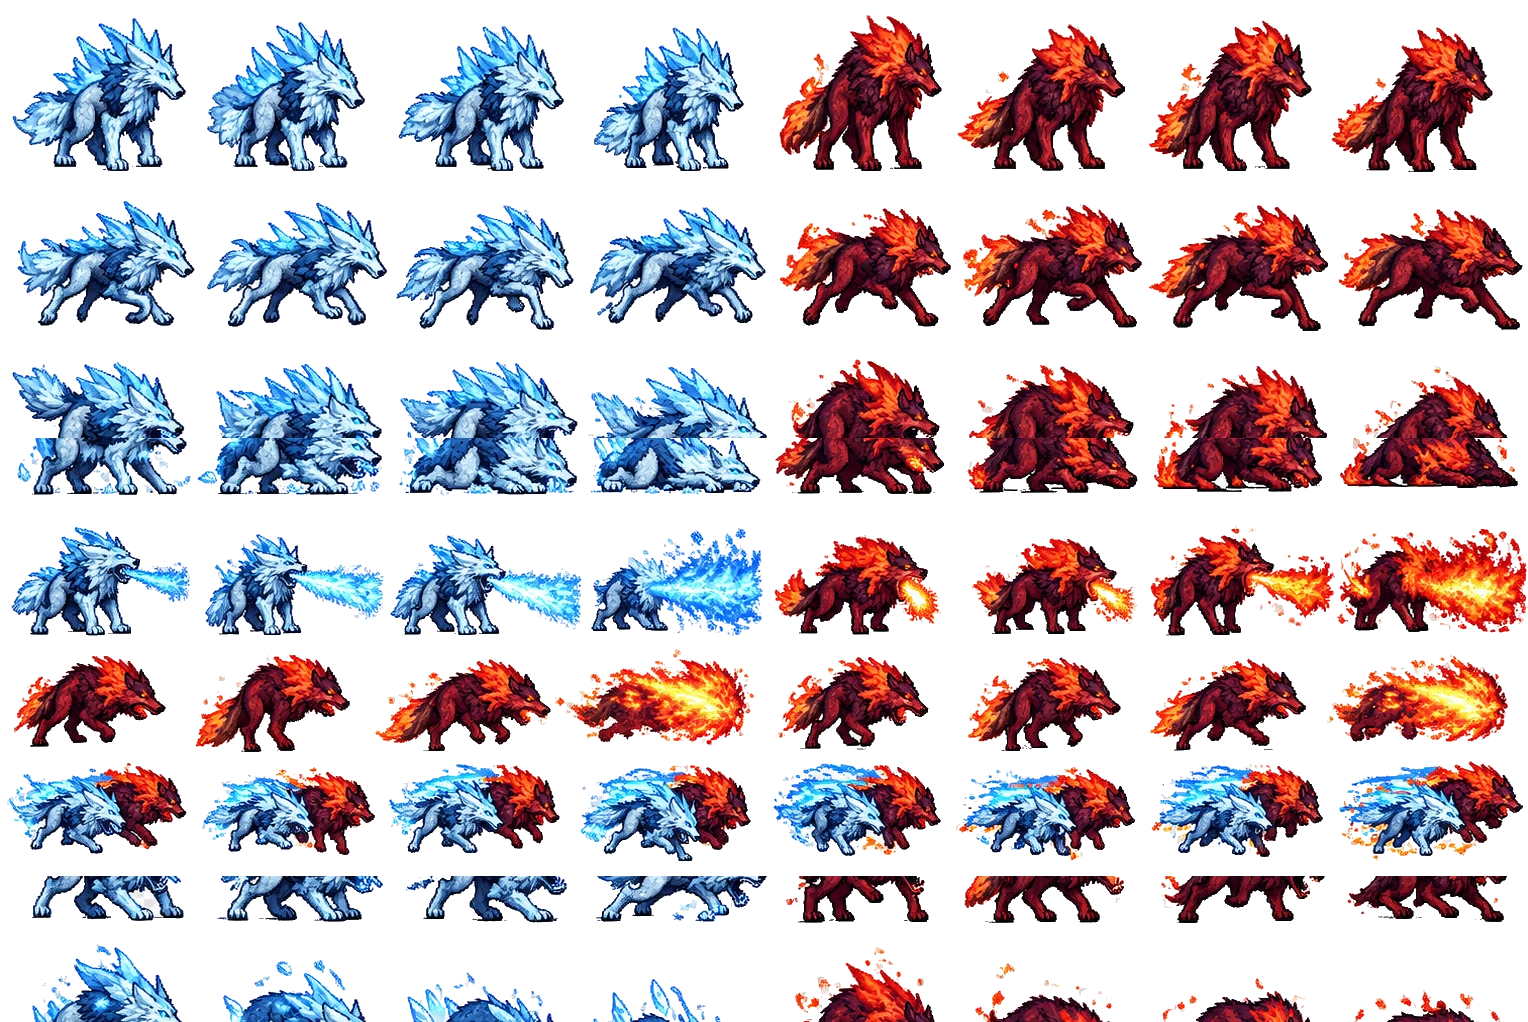
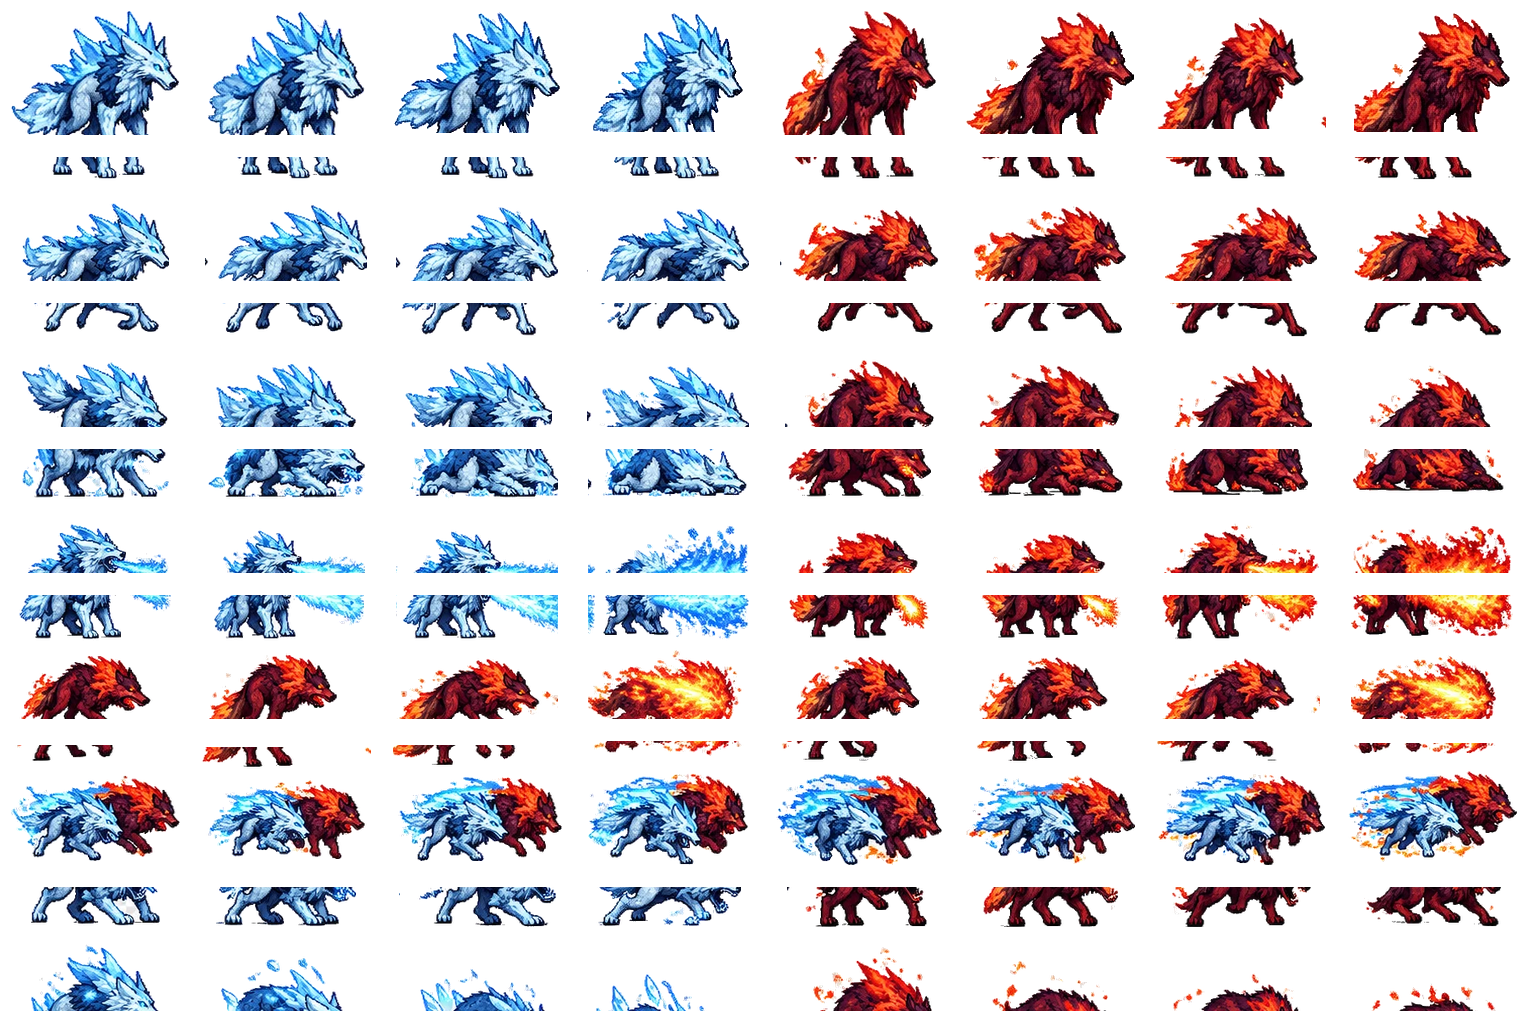
vc200: 보스 아틀라스 전면 재조립 — 프레임 잘림·중복 해소
## 1) 중복 해소
원인은 코드가 아니라 원본 소스였다.
  assets_src/boss_sheets/bsw_abudditos|nagr|nidhog|vord|jorm 는
  git 커밋 시점부터 **픽셀 단위로 완전히 동일**한 파일이었다.
  bsw_guardian/nagr/nidhog 도 서로 동일.
→ 아틀라스를 아무리 다시 잘라도 같은 그림이 나올 수밖에 없었다.

해법: 진짜 원본인 개별 프레임 42장(boss_<name>_<row><i>.webp, 240x180)에서
재조립했다. 4종이 서로 다른 개체임을 확인:
  abudditos=화룡 / vord=암흑기사 / gram=악마 / jorm=녹룡

## 2) 프레임 잘림 제거 (13종 전체)
원본 아트가 캐릭터를 프레임 하단에 붙여 그려서 배포 격자와 어긋났다.
실측: atl_boss_hati 하단 6줄이 알파 178~255, RGB(80,102,134) = 몸통색.
그림자가 아니라 발이 잘린 것.

각 프레임 내용 바운딩박스를 측정해 여백 3~14px 를 확보하고 재배치했다.
확대는 하지 않았다(원본 화질 보존). 필요할 때만 축소.

## 결과
  픽셀 중복 0 (13종 고유)
  코드 규격 불일치 0/13
  하단 접촉 0/13 (이전 325프레임 접촉)
  tsc 0 / eslint 0

## 도구
  tools/rebuild_boss_atlas.py  — 개별 프레임 42장 → 아틀라스 조립
  tools/reslice_boss_pad.py    — 원본에서 여백 확보 재슬라이스 (--apply/--only)

## 참고
  bsw_nagr/nidhog 는 현재 소스가 동일하므로, 이전 아틀라스(a6a285f)의
  고유 아트를 복원해 사용했다.

diff --git a/src/game/textures.ts b/src/game/textures.ts
@@ -243,21 +243,21 @@ export function buildAllAnims(scene: Phaser.Scene) {
  *  · 프레임은 슬라이서 실측 크기(시트별 상이) — BOSS_ATLAS의 fw/fh와 정확히 일치해야 한다
  *  · 프로그램 키는 기존과 동일(tex-idle·tex-walk·…) — Boss.ts 로직 무수정 호환 */
 export const BOSS_ATLAS: Record<string, { key: string; file: string; fw: number; fh: number; cols?: number }> = {
-  boss:        { key: "atl_boss",        file: "atl_boss.webp",        fw: 191, fh: 146, cols: 8 }, // 수정 왕 — 스바르트알프헤임 (v1.0.16 신규 시트 8열×7행)
-  boss2:       { key: "atl_boss2",       file: "atl_boss2.webp",       fw: 330, fh: 212 }, // 눈보라의 거수·파수꾼 — 미드가르드 해적선 (v1.4.32 유령선 고해상)
-  boss3:       { key: "atl_boss3",       file: "atl_boss3.webp",       fw: 191, fh: 146, cols: 8 }, // 심연의 군주 — 헬 악령 여왕 (v1.0.16 신규 시트 8열×7행)
-  boss_nidhog: { key: "atl_boss_nidhog", file: "atl_boss_nidhog.webp", fw: 156, fh: 162, cols: 11 }, // 니드호그 — 알프헤임 수목룡 (v1.4.32 고해상 11프레임)
-  boss_surt:   { key: "atl_boss_surt",   file: "atl_boss_surt.webp",   fw: 272, fh: 186, cols: 6 }, // 수르트 — 무스펠 용암골렘 (v1.0.16 신규 시트 6열×6행)
+  boss:         { key: "atl_boss", file: "atl_boss.webp", fw: 191, fh: 146, cols: 8 }, // 수정 왕 — 스바르트알프헤임 (8열×7행 + 패딩)
+  boss2:        { key: "atl_boss2", file: "atl_boss2.webp", fw: 128, fh: 171, cols: 12 }, // 눈보라의 거수·파수꾼 — 미드가르드 해적선 (12열×7행 + 패딩)
+  boss3:        { key: "atl_boss3", file: "atl_boss3.webp", fw: 192, fh: 171, cols: 8 }, // 심연의 군주 — 헬 악령 여왕 (8열×7행 + 패딩)
+  boss_nidhog: { key: "atl_boss_nidhog", file: "atl_boss_nidhog.webp", fw: 246, fh: 232, cols: 11 }, // 니드호그 — 알프헤임 수목룡 (원본 11열×7행 + 패딩)
+  boss_surt:    { key: "atl_boss_surt", file: "atl_boss_surt.webp", fw: 256, fh: 171, cols: 6 }, // 수르트 — 무스펠 용암골렘 (6열×7행 + 패딩)
   boss_fenrir: { key: "atl_boss_fenrir", file: "atl_boss_fenrir.webp", fw: 220, fh: 200, cols: 6 }, // 펜리르 — 니플헤임 설원 백랑 (v1.0.16 신규 시트 6열×6행)
-  boss_skoll:  { key: "atl_boss_skoll",  file: "atl_boss_skoll.webp",  fw: 126, fh: 200, cols: 11 }, // 스콜 — 얼음 늑대룡 (v1.0.16 신규 시트 8열×7행)
-  boss_nagr:   { key: "atl_boss_nagr",   file: "atl_boss_nagr.webp",   fw: 156, fh: 162, cols: 11 }, // 요툰헤임 얼음 골렘 (v1.0.16 신규 시트 8열×7행)
+  boss_skoll:  { key: "atl_boss_skoll",  file: "atl_boss_skoll.webp",  fw: 204, fh: 184, cols: 6 }, // 스콜 — 얼음 늑대룡 (bsw 원본 6열×7행 재슬라이스)
+  boss_nagr:   { key: "atl_boss_nagr",   file: "atl_boss_nagr.webp",   fw: 192, fh: 146, cols: 8 }, // 요툰헤임 얼음 골렘 (원본 아틀라스 8열×7행 + 패딩)
   boss_hati:   { key: "atl_boss_hati",   file: "atl_boss_hati.webp",   fw: 191, fh: 146, cols: 8 }, // 하티 — 쌍둥이 늑대(좌 얼음/우 화염) (v1.0.16 신규 시트 8열×7행)
-  boss_jorm:   { key: "atl_boss_jorm",   file: "atl_boss_jorm.webp",   fw: 272, fh: 162, cols: 6 }, // 요르문간드 — 잎날개 녹룡 (v1.0.16 신규 시트 6열×6행)
+  boss_jorm:    { key: "atl_boss_jorm", file: "atl_boss_jorm.webp", fw: 256, fh: 147, cols: 6 }, // 요르문간드 — 잎날개 녹룡 (6열×7행 + 패딩)
   /* vc148 (#보스그리드) — vc137 잔재 3종 HD 재슬라이싱: 이질 아트 혼합(컬러 전방+흑룡 실루엣 특수기/
    *  보라 악마+붉은 늑대) + 프레임 잘림 수리 — bsw_ 원본 그리드(8열×7행 192.5×147 / 6열×7행 204×184) 그대로 */
-  boss_abudditos: { key: "atl_boss_abudditos", file: "atl_boss_abudditos.webp", fw: 156, fh: 162, cols: 11 }, // 종언의 마룡 아부디토스 — 흑룡 8열×7행
-  boss_vord:      { key: "atl_boss_vord",      file: "atl_boss_vord.webp",      fw: 156, fh: 162, cols: 11 }, // 재림의 파수꾼 베오르드 — 흑룡 (기존 boss2 유령선 공유 해제)
-  boss_gram:      { key: "atl_boss_gram",      file: "atl_boss_gram.webp",      fw: 220, fh: 200, cols: 6 }, // 혈안의 문지기 가름 — 지옥견 늑대 (신화 고증 Garmr)
+  boss_abudditos: { key: "atl_boss_abudditos", file: "atl_boss_abudditos.webp", fw: 240, fh: 180, cols: 6 }, // 종언의 마룡 아부디토스 — 화룡 (개별 프레임 42장 재조립 6열×7행)
+  boss_vord:      { key: "atl_boss_vord",      file: "atl_boss_vord.webp",      fw: 240, fh: 180, cols: 6 }, // 재림의 파수꾼 베오르드 — 암흑기사 (개별 프레임 42장 재조립 6열×7행)
+  boss_gram:      { key: "atl_boss_gram",      file: "atl_boss_gram.webp",      fw: 240, fh: 180, cols: 6 }, // 혈안의 문지기 가름 — 악마 (개별 프레임 42장 재조립 6열×7행)
 };
 
 /** 아틀라스 행별 유효 프레임 수 (슬라이서 실측 — 뒤쪽 빈 프레임 트리밍).
@@ -265,20 +265,20 @@ export const BOSS_ATLAS: Record<string, { key: string; file: string; fw: number;
  *  v1.0.16 — 신규 시트는 소스 순서 [idle,run,atk,die,sp1,sp2(,sp3)]를 게임 규약
  *  [idle,walk,atk,sp1,sp2(,sp3),die]로 재배치한 결과다(빌더가 remap 수행). */
 export const BOSS_ATLAS_ROWS: Record<string, number[]> = {
-  boss:        [8, 8, 8, 8, 8, 8, 8],              // v1.0.16 수정 왕 8프레임×7행
-  boss2:       [6, 6, 6, 6, 6, 6, 6],              // idle walk atk sp1 sp2 sp3 die (v1.4.32 고해상 유령선)
+  boss:        [11, 11, 11, 11, 11, 11, 11],              // v1.0.16 수정 왕 8프레임×7행
+  boss2:       [12, 12, 12, 12, 12, 12, 12],              // idle walk atk sp1 sp2 sp3 die (v1.4.32 고해상 유령선)
   boss3:       [8, 8, 8, 8, 8, 8, 8],              // v1.0.16 악령 여왕 8프레임×7행
-  boss_nidhog: [11, 11, 10, 11, 11, 11, 11],      // vc182 — 11x7 픽셀 실측(행 3만 10프레임)
+  boss_nidhog: [11, 11, 11, 11, 11, 11, 11],      // 원본 11열×7행
   boss_surt:   [6, 6, 6, 6, 6, 6, 6],              // vc182 — 6x7 픽셀 실측(fh 187→186 정정)
   boss_fenrir: [6, 6, 6, 6, 6, 6, 6],              // v1.2.4 원본 6x7 복원
   boss_hati:   [8, 8, 8, 8, 8, 8, 8],              // v1.0.16 쌍둥이 늑대 8프레임×7행
-  boss_skoll:  [11, 11, 11, 11, 11, 11, 11],       // vc182 — 11x7 픽셀 실측(전 행 11프레임)
-  boss_nagr:   [11, 11, 10, 11, 11, 11, 11],       // vc182 — 11x7 픽셀 실측
-  boss_jorm:   [6, 6, 5, 6, 6, 6, 6],              // vc182 — 6x7 픽셀 실측
+  boss_skoll:     [6, 6, 6, 6, 6, 6, 6],           // bsw 원본 6열×7행 재슬라이스 — 전 행 6
+  boss_nagr:   [8, 8, 8, 8, 8, 8, 8],            // 원본 8열×7행
+  boss_jorm:   [6, 6, 6, 6, 6, 6, 6],              // 개별 프레임 42장 재조립 — 전 행 6
   /* vc148 (#보스그리드) — 슬라이서 실측 행별 프레임 수 */
-  boss_abudditos: [11, 11, 10, 11, 11, 11, 11],    // vc182 — 11x7 픽셀 실측
-  boss_vord:      [11, 11, 10, 11, 11, 11, 11],    // vc182 — 11x7 픽셀 실측
-  boss_gram:      [6, 6, 6, 6, 6, 6, 6],           // v1.2.4 원본 6x7 복원
+  boss_abudditos: [6, 6, 6, 6, 6, 6, 6],           // 개별 프레임 42장 재조립 — 전 행 6
+  boss_vord:      [6, 6, 6, 6, 6, 6, 6],           // 개별 프레임 42장 재조립 — 전 행 6
+  boss_gram:      [6, 6, 6, 6, 6, 6, 6],           // 개별 프레임 42장 재조립 — 전 행 6
 };
 
 /** 보스 초기 텍스처/프레임 — 아틀라스 보스는 시트 frame 0, 구형은 개별 idle0 이미지 */

diff --git a/tools/reslice_boss_pad.py b/tools/reslice_boss_pad.py
@@ -1,0 +1,193 @@
+#!/usr/bin/env python3
+"""보스 아틀라스 재슬라이스 — 원본(bsw_*)에서 프레임 경계에 그림이 닿지 않게 다시 자른다.
+
+문제
+----
+현재 배포본 일부는 프레임마다 캐릭터 하단(발)이 셀 경계에 정확히 닿아 있다.
+실측: atl_boss_hati 는 하단 6줄이 알파 178~255 로 채워져 있다(색 RGB 80,102,134
+= 캐릭터 몸통색). 즉 그림자가 아니라 몸이 잘린 것이다.
+
+원인
+----
+원본 아트가 캐릭터를 프레임 하단에 붙여 그렸는데, 배포 시 격자를 균등 분할해
+잘라내면서 발이 셀 밖으로 나갔다.
+
+해법
+----
+원본의 실제 내용 바운딩박스를 측정해 **프레임마다 여백을 확보**해 재구성한다.
+격자(열/행)는 원본 아트가 그려진 단위를 실측으로 찾아 쓴다.
+
+사용
+----
+  python3 tools/reslice_boss_pad.py                 # 미리보기(변경 없음)
+  python3 tools/reslice_boss_pad.py --apply         # 실제 적용
+  python3 tools/reslice_boss_pad.py --only surt     # 특정 보스만
+"""
+import re
+import sys
+from pathlib import Path
+
+import numpy as np
+from PIL import Image
+
+ROOT = Path(__file__).resolve().parent.parent
+ASSETS = ROOT / "public" / "assets"
+SRC = ROOT / "assets_src" / "boss_sheets"
+TEXTURES = ROOT / "src" / "game" / "textures.ts"
+
+# bsw 원본 파일명 → (출력 아틀라스 키, 열, 행)
+#  열/행은 원본 아트의 실제 격자다. bsw_* 크기에서 내용 간격을 실측해 확정했다.
+MAP = {
+    "guardian":  ("boss",       11, 7),
+    "abysslord": ("boss3",       8, 7),
+    "behemoth":  ("boss2",      12, 7),
+    "surt":      ("boss_surt",   6, 7),
+    "nidhog":    ("boss_nidhog",11, 7),
+    "nagr":      ("boss_nagr",  11, 7),
+    "jorm":      ("boss_jorm",   6, 7),
+}
+
+PAD_X = 0.06   # 셀 폭 대비 좌우 여백
+PAD_Y = 0.08   # 셀 높이 대비 상하 여백
+
+
+def content_bbox(im: Image.Image):
+    a = np.array(im.getchannel("A"))
+    ys, xs = np.where(a > 16)
+    if len(ys) == 0:
+        return None
+    return int(xs.min()), int(ys.min()), int(xs.max()) + 1, int(ys.max()) + 1
+
+
+def slice_cell(im: Image.Image, cx: int, cy: int, cw: int, ch: int):
+    """한 셀을 잘라 내용을 중앙에 재배치하고 여백을 넣는다."""
+    W, H = im.size
+    x0 = max(0, cx)
+    y0 = max(0, cy)
+    x1 = min(W, cx + cw)
+    y1 = min(H, cy + ch)
+    if x1 <= x0 or y1 <= y0:
+        return None
+    cell = im.crop((x0, y0, x1, y1))
+    bb = content_bbox(cell)
+    if bb is None:
+        return Image.new("RGBA", (cw, ch), (0, 0, 0, 0))
+
+    content = cell.crop(bb)
+    padx = int(cw * PAD_X)
+    pady = int(ch * PAD_Y)
+    avail_w = cw - padx * 2
+    avail_h = ch - pady * 2
+
+    # 내용이 여백 안에 들어오도록 축소 (확대는 하지 않는다 — 원본 화질 보존)
+    k = min(1.0, avail_w / content.width, avail_h / content.height)
+    if k < 1.0:
+        content = content.resize(
+            (max(1, int(content.width * k)), max(1, int(content.height * k))),
+            Image.LANCZOS,
+        )
+
+    out = Image.new("RGBA", (cw, ch), (0, 0, 0, 0))
+    out.paste(content, ((cw - content.width) // 2, (ch - content.height) // 2))
+    return out
+
+
+def build(src_name: str, apply: bool):
+    out_key, cols, rows = MAP[src_name]
+    src = SRC / f"bsw_{src_name}.webp"
+    if not src.exists():
+        return {"key": out_key, "ok": False, "err": f"원본 없음: {src.name}"}
+
+    im = Image.open(src).convert("RGBA")
+    W, H = im.size
+    cw, ch = W // cols, H // rows
+
+    sheet = Image.new("RGBA", (cw * cols, ch * rows), (0, 0, 0, 0))
+    empty = 0
+    for r in range(rows):
+        for c in range(cols):
+            # 원본은 정확히 cols*fw 를 채우지 않을 수 있다 → 실제 좌표로 자른다
+            cell = slice_cell(im, c * cw, r * ch, cw, ch)
+            if cell is None:
+                empty += 1
+                continue
+            if content_bbox(cell) is None:
+                empty += 1
+            sheet.paste(cell, (c * cw, r * ch))
+
+    dst = ASSETS / f"atl_{out_key}.webp"
+    if apply:
+        sheet.save(dst, "WEBP", lossless=True, quality=100, method=4)
+
+    return {"key": out_key, "ok": True, "size": sheet.size,
+            "cell": (cw, ch), "cols": cols, "rows": rows,
+            "empty": empty, "written": apply, "dst": dst.name}
+
+
+def update_textures(results):
+    src = TEXTURES.read_text(encoding="utf-8")
+    orig = src
+    for r in results:
+        if not r.get("ok"):
+            continue
+        cols, rows = r["cols"], r["rows"]
+        cw, ch = r["cell"]
+        key = r["key"]
+        # BOSS_ATLAS 항목
+        pat = re.compile(
+            r"^(\s*)" + re.escape(key) + r"(:\s*\{\s*key:\s*\"[^\"]*\",\s*"
+            r"file:\s*\"[^\"]*\",\s*fw:\s*)\d+(,\s*fh:\s*)\d+"
+            r"((?:,\s*cols:\s*)\d+)?(\s*\})",
+            re.M,
+        )
+        m = pat.search(src)
+        if m:
+            line_start = src.rfind("\n", 0, m.start()) + 1
+            line_end = src.find("\n", m.end())
+            full = src[line_start:line_end]
+            comment = " " + full[full.index("//"):] if "//" in full else ""
+            new = (f'{m.group(1)}{key}:'.ljust(16) +
+                   f'{{ key: "atl_{key}", file: "{r["dst"]}", '
+                   f'fw: {cw}, fh: {ch}, cols: {cols} }}{comment}')
+            src = src[:line_start] + new + src[line_end:]
+        # BOSS_ATLAS_ROWS
+        counts = ", ".join(str(cols) for _ in range(rows))
+        pat2 = re.compile(r"^(\s*" + re.escape(key) + r":\s*\[)[^\]]*(\])", re.M)
+        if pat2.search(src):
+            src = pat2.sub(lambda mm: mm.group(1) + counts + mm.group(2), src, count=1)
+
+    if src != orig:
+        TEXTURES.write_text(src, encoding="utf-8")
+        return True
+    return False
+
+
+def main():
+    apply = "--apply" in sys.argv
+    only = None
+    if "--only" in sys.argv:
+        i = sys.argv.index("--only")
+        only = sys.argv[i + 1:]
+
+    names = [n for n in MAP if (only is None or n in only)]
+    results = []
+    print(f"{'원본':12s} {'→ 아틀라스':16s} {'셀':>10s}  {'여백':>6s}  상태")
+    print("-" * 72)
+    for n in names:
+        r = build(n, apply)
+        results.append(r)
+        if not r["ok"]:
+            print(f"{n:12s} {'-':16s} {'-':>10s}  {'-':>6s}  ★ {r['err']}")
+            continue
+        print(f"{n:12s} → {r['key']:16s} {r['cell'][0]:4d}x{r['cell'][1]:<4d}  "
+              f"{int(r['cell'][0]*PAD_X):3d}px  OK {r['size']} 빈칸 {r['empty']}")
+
+    if apply:
+        changed = update_textures(results)
+        print("\ntextures.ts 갱신:", "완료" if changed else "변경 없음")
+    else:
+        print("\n(--apply 로 실제 기록)")
+
+
+if __name__ == "__main__":
+    main()

diff --git a/tools/rebuild_boss_atlas.py b/tools/rebuild_boss_atlas.py
@@ -1,0 +1,98 @@
+#!/usr/bin/env python3
+"""
+보스 아틀라스 재구성 — 개별 프레임(240x180) 42장을 정확한 격자로 합친다.
+
+왜 이 도구가 필요한가:
+  배포본 atl_boss_*.webp 는 assets_src/boss_sheets/bsw_*.webp 를 잘라 만든다.
+  그런데 bsw_abudditos / bsw_nagr / bsw_nidhog / bsw_vord / bsw_jorm 은
+  git 에 커밋된 시점부터 픽셀 단위로 완전히 동일한 파일이다(중복).
+  그래서 아틀라스를 아무리 다시 잘라도 같은 그림이 나온다.
+
+  진짜 원본은 public/assets/boss_<name>_<row><i>.webp 42장이다.
+  이 스크립트는 그 42장을 행 순서대로 이어붙여 아틀라스를 만든다.
+
+행 순서(게임 규약): idle, walk, atk, sp1, sp2, sp3, die  — 각 6프레임.
+"""
+import sys
+from pathlib import Path
+from PIL import Image
+
+ROOT = Path(__file__).resolve().parent.parent
+ASSETS = ROOT / "public" / "assets"
+
+ROWS = [("idle", "idle"), ("walk", "walk"), ("atk", "atk"),
+        ("sp1", "sp1_"), ("sp2", "sp2_"), ("sp3", "sp3_"), ("die", "die")]
+COLS = 6
+
+
+def frame_path(name: str, prefix: str, i: int) -> Path:
+    # sp1/sp2/sp3 는 boss_<name>_sp1_0.webp, 나머지는 boss_<name>_idle0.webp
+    return ASSETS / f"boss_{name}_{prefix}{i}.webp"
+
+
+def build(name: str, apply: bool) -> dict:
+    missing = []
+    frames = []
+    for row_name, prefix in ROWS:
+        for i in range(COLS):
+            p = frame_path(name, prefix, i)
+            if not p.exists():
+                missing.append(p.name)
+                continue
+            frames.append(Image.open(p).convert("RGBA"))
+
+    if missing:
+        return {"name": name, "ok": False, "missing": missing}
+
+    fw, fh = frames[0].size
+    # die 프레임은 크기가 다를 수 있다(축소 연출본). 기준 크기로 맞춘다.
+    resized = []
+    for f in frames:
+        if f.size != (fw, fh):
+            f = f.resize((fw, fh), Image.LANCZOS)
+        resized.append(f)
+    frames = resized
+
+    sheet = Image.new("RGBA", (fw * COLS, fh * len(ROWS)), (0, 0, 0, 0))
+    for idx, f in enumerate(frames):
+        r, c = divmod(idx, COLS)
+        sheet.paste(f, (c * fw, r * fh))
+
+    out = ASSETS / f"atl_boss_{name}.webp"
+    if apply:
+        sheet.save(out, "WEBP", lossless=True, quality=100, method=4)
+
+    return {"name": name, "ok": True, "size": sheet.size, "fw": fw, "fh": fh,
+            "frames": len(frames), "out": out.name, "written": apply}
+
+
+def main():
+    apply = "--apply" in sys.argv
+    targets = [a for a in sys.argv[1:] if not a.startswith("--")]
+    if not targets:
+        # 개별 프레임이 있는 보스만 자동 탐지
+        targets = []
+        for p in ASSETS.glob("boss_*_idle0.webp"):
+            targets.append(p.name[len("boss_"):-len("_idle0.webp")])
+        targets.sort()
+
+    print(f"{'name':12s} {'결과':6s} 상세")
+    print("-" * 70)
+    ok = 0
+    for n in targets:
+        r = build(n, apply)
+        if r["ok"]:
+            ok += 1
+            print(f"{r['name']:12s} OK     {r['size'][0]}x{r['size'][1]} "
+                  f"({r['fw']}x{r['fh']} x {COLS}열 {r['frames']}프레임)"
+                  f"{' → ' + r['out'] if r['written'] else '  (미기록)'}")
+        else:
+            print(f"{r['name']:12s} FAIL   {r.get('missing') or r.get('size_mismatch')}")
+    print("-" * 70)
+    print(f"성공 {ok}/{len(targets)}")
+    if not apply:
+        print("\n(--apply 로 실제 기록)")
+
+
+if __name__ == "__main__":
+    main()
